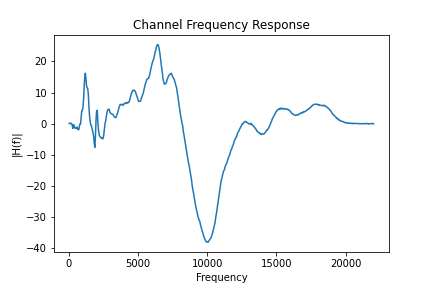
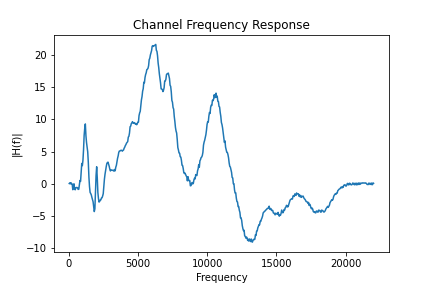
Finished Q1 of Week 2 challenge

diff --git a/OFDM.py b/OFDM.py
@@ -14,17 +14,19 @@ sd.default.channels = 1
 #########################################
 
 class CamG:
-    def __init__(self, ofdm_symbol_size, cp_length, modulation, pilot_sequence=np.array([]), end_chirp=True):
+    def __init__(self, ofdm_symbol_size, cp_length, modulation, fs=44100, pilot_sequence=np.array([]), end_chirp=True):
     
         # OFDM params
         self.ofdm_symbol_size = ofdm_symbol_size    # OFDM symbol size
         self.K = self.ofdm_symbol_size // 2 - 1     # Number of carriers in OFDM symbol i.e. DFT size / 2 - 1
         self.cp_length = cp_length                  # length of cyclic prefix
         self.pilot_sequence = pilot_sequence        # Known values of the pilot symbols to transmit before data
+        self.symbols_per_frame = -1                 # Number of sybmols per frame with SchmidlCox pramble
+        self.pre_length =  1                        # Preamble length for Schmidl Cox Symbol
         
         
         # Audio params
-        self.fs = 44100                             # Audio sampling rate
+        self.fs = fs                                # Audio sampling rate
         
         # Chirp params
         self.f0 = 100                               # Chirp start frequency
@@ -32,7 +34,7 @@ class CamG:
         self.chirp_length = 1                       # Chirp time
         self.chirp_method = 'linear'                # Chirp type
         self.end_chirp = end_chirp                  # Turns terminating chirp on/off
-        self.gap_length = 0                         # Gap between chirp and transmission in s
+        self.gap_length = 0                         # Gap between chirp and transmission in samples
 
         # Carrier params
         self.data_carriers = np.arange(1,self.K+1)                                           # indicies of all subcarriers [1... K]
@@ -72,7 +74,8 @@ class CamG:
     def sync_chirp(self):
             
         t = np.linspace(0, self.chirp_length, self.chirp_length*self.fs)
-        return 0.25 * chirp(t, f0=self.f0, f1=self.f1, t1=self.chirp_length, method=self.chirp_method)
+        return chirp(t, f0=self.f0, f1=self.f1, t1=self.chirp_length, method=self.chirp_method)
+        
             
             
         # Prints out key OFDM attributes
@@ -146,9 +149,10 @@ class transmitter(CamG):                                # Inherits class attribu
         # Convert to serial stream and take real part
         tx_data = time_data.reshape(-1)
         tx = tx_data.real
+
         
         # Pad with zeros to separate from chirp
-        padding = np.zeros(int(self.gap_length * self.fs))
+        padding = np.zeros(int(self.gap_length))
         
         # Chirp
         fsweep = self.sync_chirp()
@@ -229,20 +233,23 @@ class receiver(transmitter):
         fsweep = self.sync_chirp()
         fsweep_reverse = fsweep[::-1]
         
-        start_sync_signal = convolve(signal, fsweep_reverse, mode="same")
-        end_sync_signal = convolve(signal, fsweep, mode="same")
+        start_sync_signal = convolve(signal, fsweep_reverse, mode="full")
+        end_sync_signal = convolve(signal, fsweep, mode="full")
         
         # Find max index and index of signal start
         start_index_max = np.where(start_sync_signal == np.amax(start_sync_signal))[0][0]
         end_index_max = np.where(end_sync_signal == np.amax(end_sync_signal))[0][0]
         
-        zero_index = int(1 + start_index_max + (self.chirp_length/2 + self.gap_length) * self.fs)
-        end_index = int(end_index_max + 1 - (self.chirp_length/2 + self.gap_length) * self.fs)
+
+        zero_index = int(1 + start_index_max + self.gap_length)
+        end_index = int(end_index_max + 1 - (self.chirp_length * self.fs + self.gap_length) )
         
         if(self.end_chirp == True):
             rx = signal[zero_index:end_index]
         else:
             rx = signal[zero_index:]
+            end_index = len(rx) % self.ofdm_symbol_size
+            rx = rx[:-end_index]
 
         return rx.reshape(-1,self.cp_length + self.ofdm_symbol_size), start_sync_signal
         
@@ -360,10 +367,10 @@ class receiver(transmitter):
         
         print("Number of received bits:            " + str(len(bits)))
         
-        for qam, hard in zip(data_symbols[0,:10], hardDecision[0,:10]):
-            plt.plot([qam.real, hard.real], [qam.imag, hard.imag], 'b-o')
-            plt.plot(hardDecision.real, hardDecision.imag, 'ro')
-        plt.show()
+        #for qam, hard in zip(data_symbols[0,:10], hardDecision[0,:10]):
+         #   plt.plot([qam.real, hard.real], [qam.imag, hard.imag], 'b-o')
+          #  plt.plot(hardDecision.real, hardDecision.imag, 'ro')
+        #plt.show()
         
         return bits
         
@@ -463,4 +470,37 @@ class channel(receiver):
         #np.savetxt('channel.csv', h[:100], delimiter=',')
         
         return H, h
+
+# Save the output file using specified name and file size detecting null terminated string
+def save_file(rx_bits):
+
+    file_name = []
+    file_size = []
+    data = np.packbits(rx_bits)
+
+    for item in data:
+        if(item == 0):
+            data = data[1:]
+            break
+        else:
+            file_name.append(item)
+            data = data[1:]
         
+    for item in data:
+        if(item == 0):
+            data = data[1:]
+            break
+        else:
+            file_size.append(item)
+            data = data[1:]
+
+    file_name = "".join([chr(item) for item in file_name])
+    file_size = "".join([chr(item) for item in file_size])
+
+    print("File Name: " + file_name + "\nFile Size: " + file_size)
+
+    data = data[:int(file_size)]
+
+    f = open("output_files/" + file_name, 'wb')
+    f.write(data)
+    f.close()
